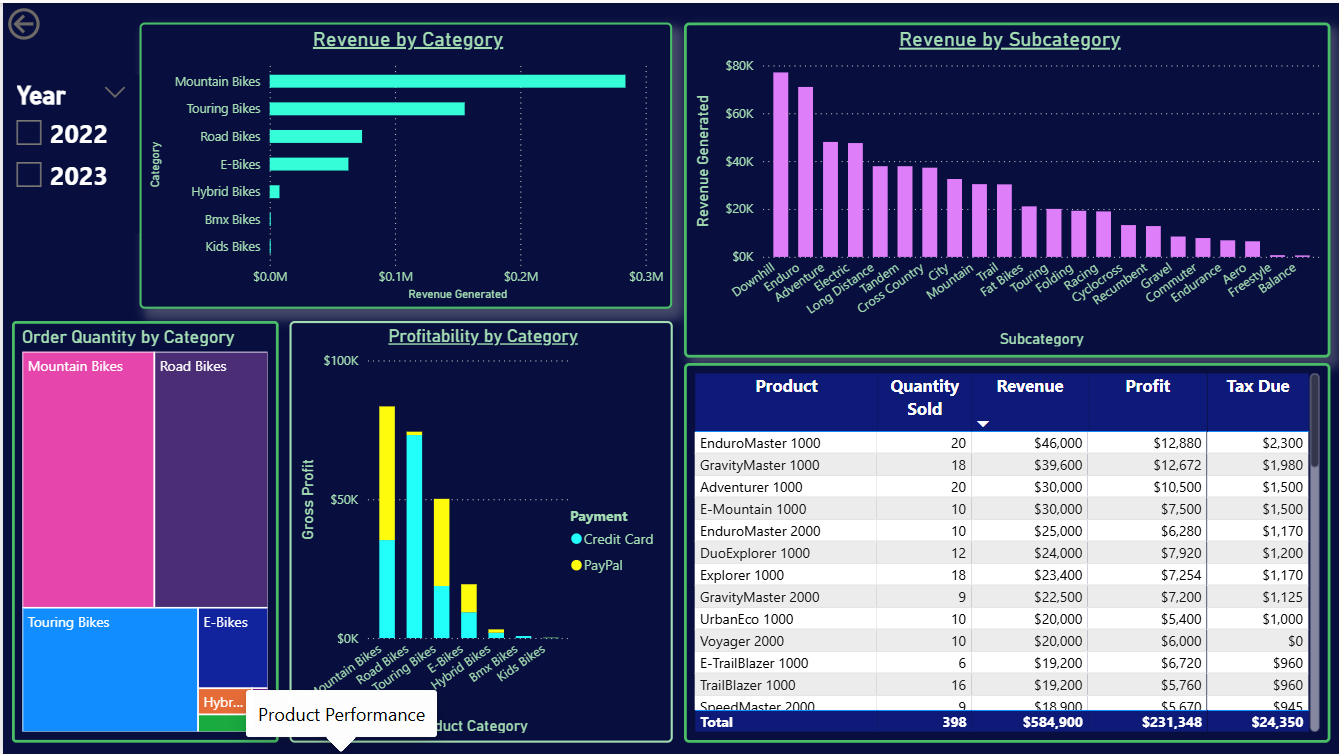
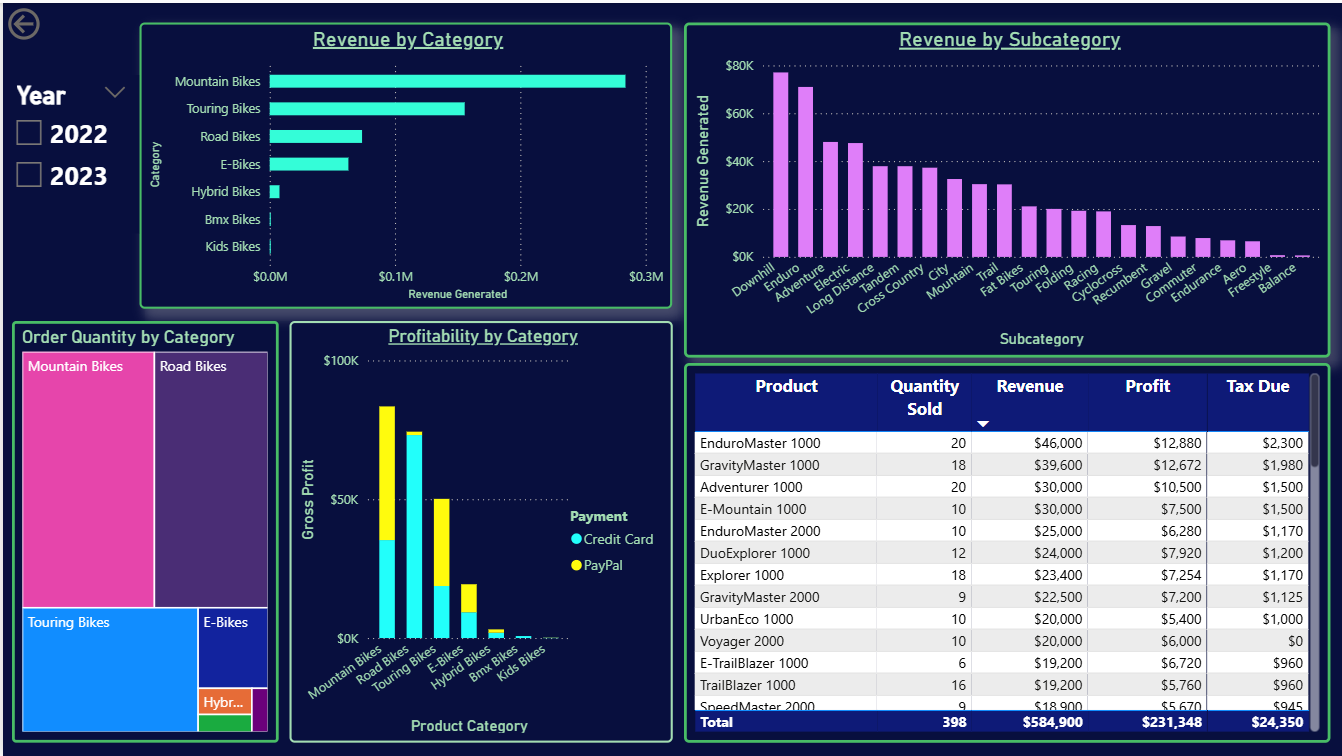
Updated README

diff --git a/README.md b/README.md
@@ -121,28 +121,28 @@ Provide an interactive dashboard allowing executives to filter results by:
 
 ## Power BI Report Interface
 
-<h1 align = "center"> 
+<h2 align = "center"> 
 Page 1: Executive Overview
-</h1>
+</h2>
 
 <p align = "center">
 <img src = "08_Images/Dashboard/Executive_Overview.png" width = "1000" height = "350">
 </p>
 
 <h1 align = "center"> 
-Page 2: Operational Performance
-</h1>
-
-<p align = "center">
-<img src = "08_Images/Dashboard/Operational_Performance.png" width = "1000" height = "350">
-</p>
-
-<h1 align = "center"> 
-Page 3: Product_Performance
+Page 2: Product Performance
 </h1>
 
 <p align = "center">
 <img src = "08_Images/Dashboard/Product_Performance.png" width = "1000" height = "350">
+</p>
+
+<h1 align = "center"> 
+Page 3: Operational Performance
+</h1>
+
+<p align = "center">
+<img src = "08_Images/Dashboard/Operational_Performance.png" width = "1000" height = "350">
 </p>
 
 <h1 align = "center"> 